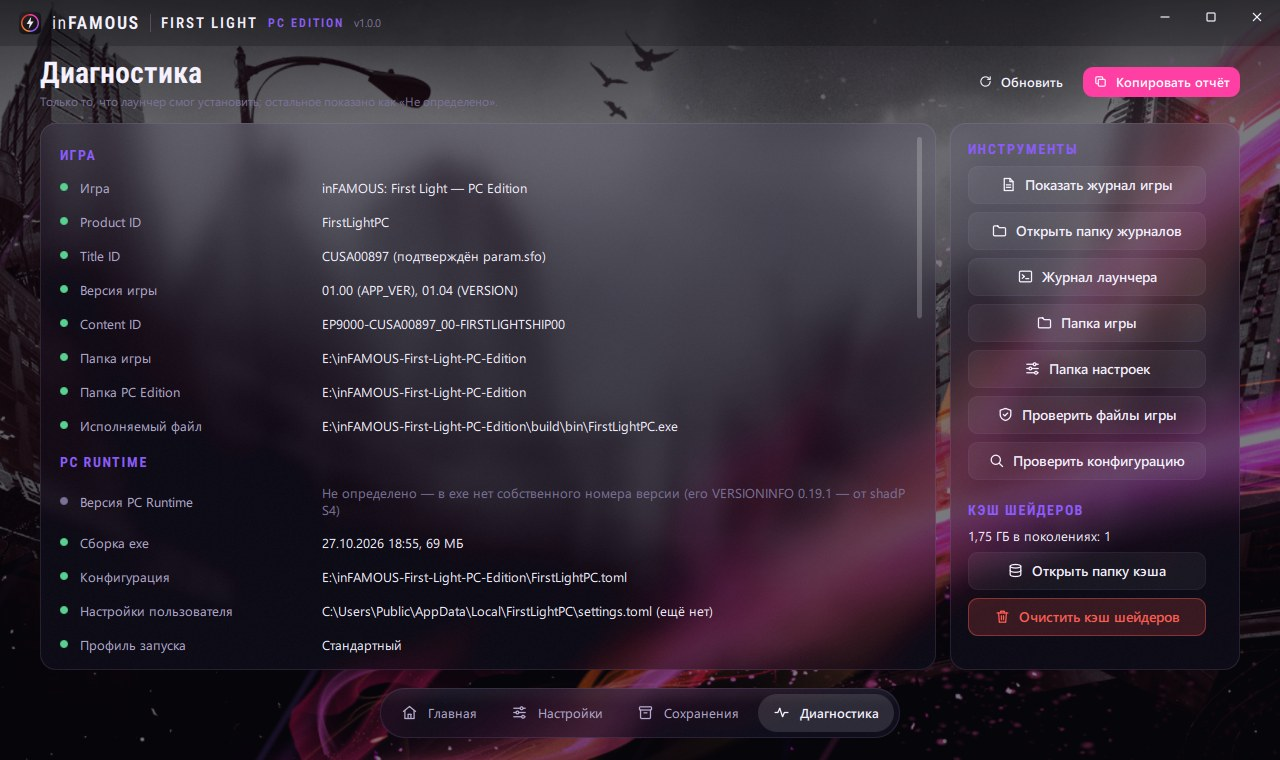
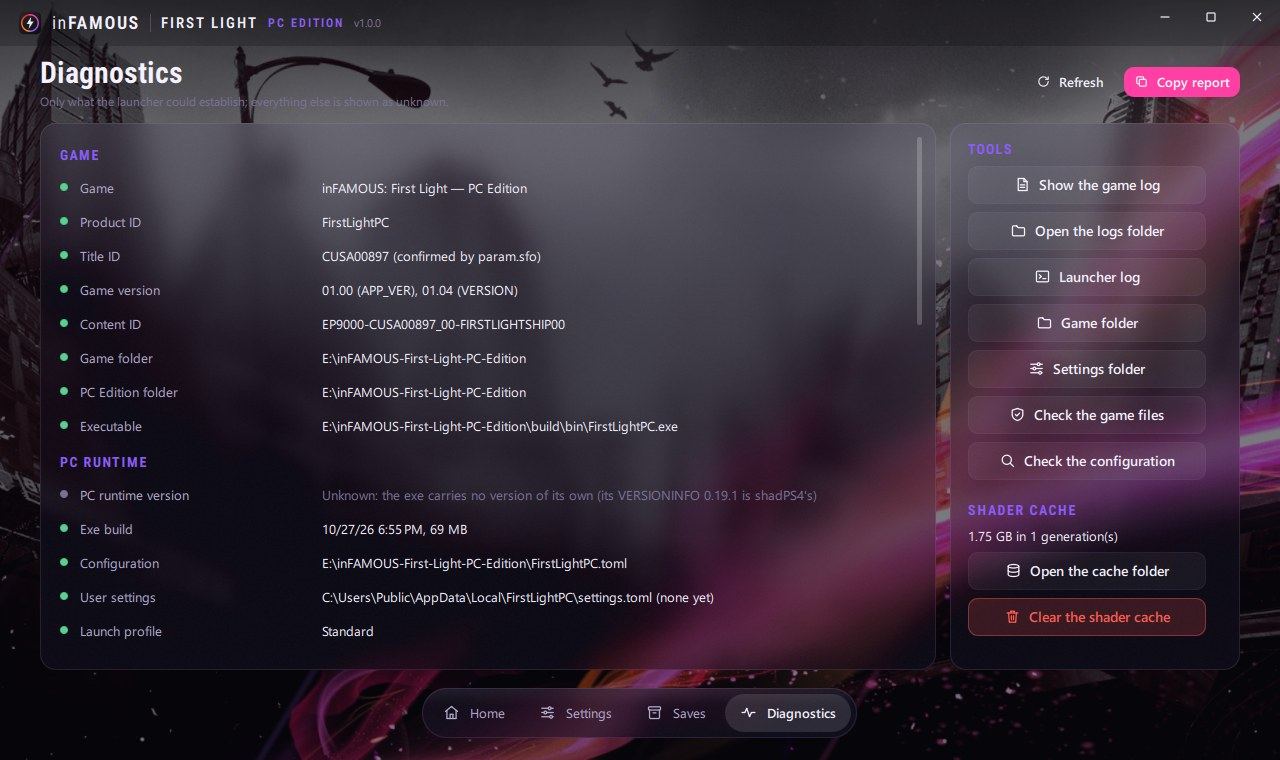
Launcher in English when Windows is not Russian; README: English screenshots

diff --git a/pc-launcher/src/app/Application.cpp b/pc-launcher/src/app/Application.cpp
@@ -34,7 +34,10 @@ QSettings::Format IniFormat() {
 Application::Application(const Options& options, QObject* parent)
     : QObject(parent), options_(options), detector_(AllProfiles()),
       prefs_(Log::Dir() + QStringLiteral("/launcher.ini"), IniFormat()) {
-    language_ = prefs_.value(QStringLiteral("ui/language"), QStringLiteral("ru")).toString() == QLatin1String("en") ? QStringLiteral("en") : QStringLiteral("ru");
+    // until the player picks one: Windows' display language, Russian or else English
+    const QStringList ui = QLocale::system().uiLanguages();
+    const QString systemLanguage = !ui.isEmpty() && ui.first().startsWith(QLatin1String("ru")) ? QStringLiteral("ru") : QStringLiteral("en");
+    language_ = prefs_.value(QStringLiteral("ui/language"), systemLanguage).toString() == QLatin1String("en") ? QStringLiteral("en") : QStringLiteral("ru");
     design_ = prefs_.value(QStringLiteral("ui/concept"), QStringLiteral("cinematic")).toString();
     if (design_ != QLatin1String("neon") && design_ != QLatin1String("desktop")) design_ = QStringLiteral("cinematic");
     reduced_ = prefs_.value(QStringLiteral("ui/reducedEffects"), false).toBool();

diff --git a/README.md b/README.md
@@ -60,7 +60,7 @@ Second Son's engine-specific optimisations (effects quality, CITY-OPT engine tag
    | `FirstLightPC-README.txt` | these steps in short |
 
 3. **The Visual C++ runtime.** Install the [Microsoft Visual C++ 2015–2022 Redistributable (x64)](https://aka.ms/vs/17/release/vc_redist.x64.exe) if it is not installed yet.
-4. **Start `FirstLightPC.exe`** and press **Играть** (Play) in the launcher; `play.cmd` still starts the game at once. On the first start a console window prepares the game's shaders (about 3.5 minutes on 6 cores / 12 threads, about 13 200 pipelines, once); later starts skip it.
+4. **Start `FirstLightPC.exe`** and press **Play** in the launcher; `play.cmd` still starts the game at once. On the first start a console window prepares the game's shaders (about 3.5 minutes on 6 cores / 12 threads, about 13 200 pipelines, once); later starts skip it.
 5. **PC settings:** in the launcher, or **F1** in the game: resolution and aspect ratio, FOV, the frame-rate limit (up to unlimited), anti-aliasing, mouse and keys.
 
 | Path | What |
@@ -72,7 +72,7 @@ Second Son's engine-specific optimisations (effects quality, CITY-OPT engine tag
 
 ## Launcher
 
-`FirstLightPC.exe` started without arguments opens the inFAMOUS PC Launcher from `Launcher\`, the same launcher Second Son uses: it finds the game from its folder and shows First Light's own art and colours. **Играть** (Play) starts the game with what is chosen there. It is in Russian for now.
+`FirstLightPC.exe` started without arguments opens the inFAMOUS PC Launcher from `Launcher\`, the same launcher Second Son uses: it finds the game from its folder and shows First Light's own art and colours. **Play** starts the game with what is chosen there. It is in English and Russian: it follows Windows' display language, and Settings → Launcher switches it.
 
 <p align="center">
   <img src=".github/readme/launcher-home.jpg" alt="The launcher's home page: Play, the launch profile, the shader cache" width="880">
